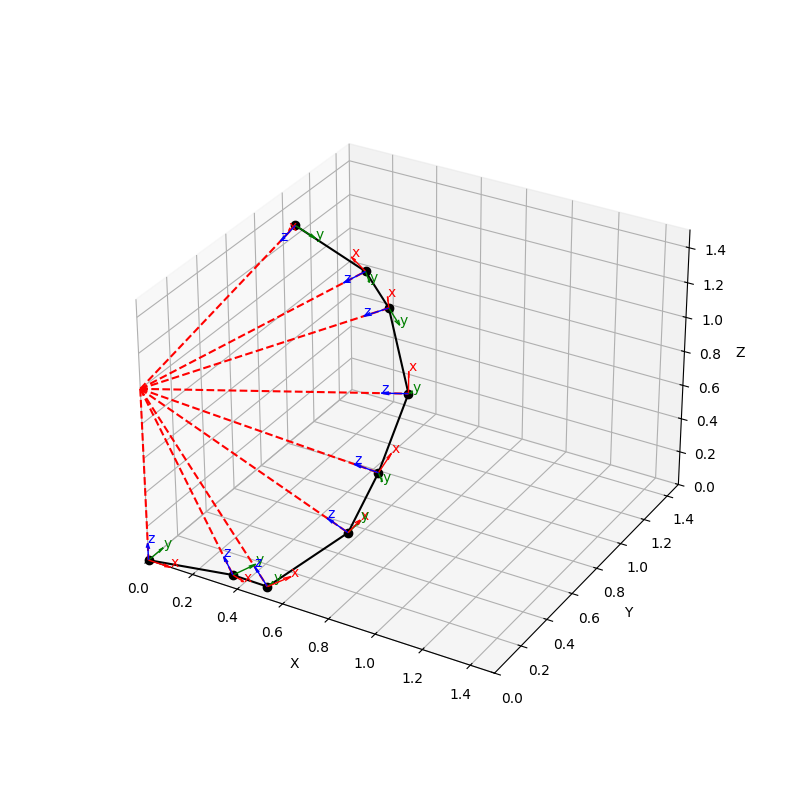
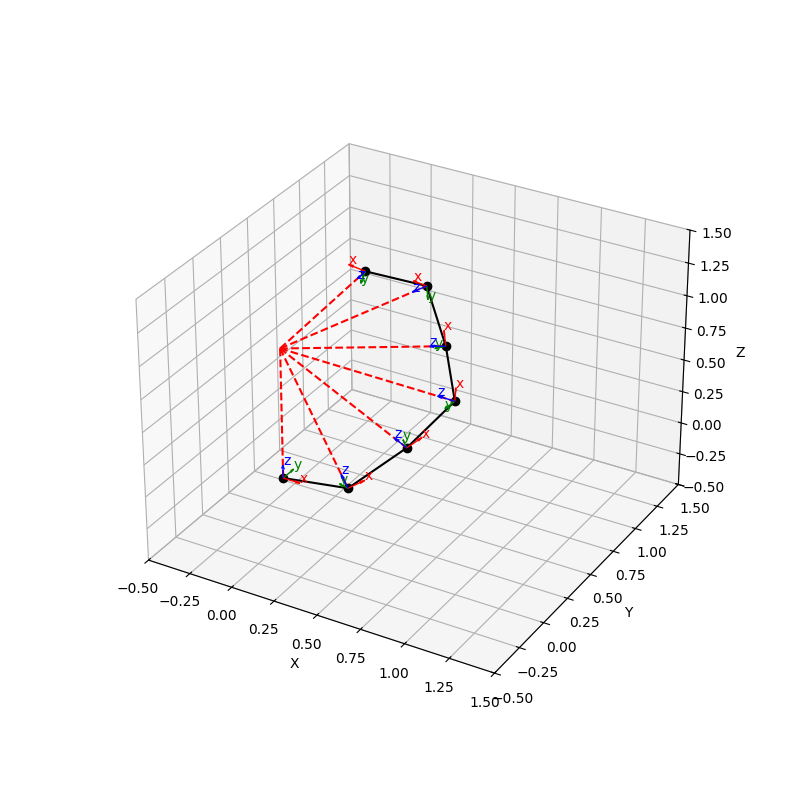
Input parameters added setup to make it easy to configure the fin folding in different ways

diff --git a/fin_transformation.py b/fin_transformation.py
@@ -15,6 +15,34 @@ Do the working to check matrix product is correct
 Model description with sketh in README 
 """
 
+"""
+------- INPUT PARAMETERS --------
+"""
+
+"""
+Number of fin rays
+(Must be even number)
+"""
+n_rays = 6
+
+"""
+Division factor, where ray angle = pi/division factor 
+- can be greater than or equal to number of fin rays   
+- must be even number
+"""
+division_factor = 8
+
+"""
+Spacing between each toe 
+Choose one, comment out the other
+"""
+# Equal spacing between each toe 
+spacing = n_rays   
+
+# If division factor is greater, spacing used for this number of rays (smaller angle between toes)
+# spacing = division_factor
+
+
 def plot_fin(positions, rotations, fin_base, scale=0.5):
 
     """
@@ -66,9 +94,9 @@ def plot_fin(positions, rotations, fin_base, scale=0.5):
     ax.set_xlabel('X')
     ax.set_ylabel('Y')
     ax.set_zlabel('Z')
-    ax.set_xlim(0, 1.5)
-    ax.set_ylim(0, 1.5)
-    ax.set_zlim(0, 1.5)
+    ax.set_xlim(-0.5, 1.5)
+    ax.set_ylim(-0.5, 1.5)
+    ax.set_zlim(-0.5, 1.5)
 
     # Plot wireframe by connecting joints to fin origin
     print(f'Check each point is equal distance from fin origin and equal to hinge length l={l}:')
@@ -179,17 +207,24 @@ def transformation_matrix(beta, a, gamma, theta):
     """
     return Ry(beta) @ Tx(a) @ Ry(gamma) @ Rz(theta)
 
-def generate_transformation_params(beta, a, gamma, theta):
+def generate_transformation_params(beta, a, gamma, theta, spacing):
     """
     Generates the individual joint parameters to describe the fin folding 
     """
     # Set angles for inner and outer folds
     inner_angle = theta
-    outer_angle = -inner_angle/2
+    outer_angle = -inner_angle * 1/2
+
+    # Calculate outer angle to create equal spacing between fin rays  
+    scale_factor = 1 - (4 / n_rays)
+    scale_factor = 1 - (4 / (division_factor))
+    scale_factor = 1 - (4 / spacing)
+    outer_angle = -inner_angle * scale_factor
+
 
     # Joint parameters for first two joints
-    params = [(beta, a, gamma, outer_angle),
-              (beta, a, gamma, inner_angle)]
+    params = [(beta, a, gamma, inner_angle),
+              (beta, a, gamma, outer_angle)]
 
     # Number of times to repeat to describe full fin
     repeats = int(n_rays/2)
@@ -199,14 +234,41 @@ def generate_transformation_params(beta, a, gamma, theta):
     
     return params
 
-# Number of fin rays
-n_rays = 8
 
-# Fin ray angle expressed as multiple of pi 
-ray_angle = 1/n_rays
-ray_angle = 1/8
+# """
+# Number of fin rays
+# (Must be even number)
+# """
+# n_rays = 6
+
+# """
+# Size of each ray as multiple of pi
+# Division factor:
+# - can be greater than or equal to number of fin rays   
+# - must be even number
+# """
+# division_factor = 6
+
+# # Fin ray angle
+# ray_angle = 1/ray_division_factor
+
+
+# """
+# Spacing between each toe 
+# Choose one, comment out the other
+# """
+# # Equal spacing between each toe 
+# spacing = n_rays   
+
+# # If division factor is greater, spacing used for this number of rays (smaller angle between toes)
+# spacing = division_factor
+
+
+
 
 # Fin ray angle
+ray_angle = 1/division_factor
+
 # alpha = pi / n_rays
 alpha = pi * ray_angle
 
@@ -244,7 +306,7 @@ gamma = -alpha/2
 for i, theta in enumerate(np.linspace(0, pi, 10)):
 
     # Joint parameters for transformation matrix: beta, a, gamma, theta
-    params = generate_transformation_params(beta, a, gamma, theta)
+    params = generate_transformation_params(beta, a, gamma, theta, spacing)
 
     # # Example: Fully opn fin (flat)
     # params = [(beta, a, gamma, 0)] * n_rays
@@ -254,8 +316,8 @@ for i, theta in enumerate(np.linspace(0, pi, 10)):
     #           (beta, a, gamma, -pi/4)] * int(n_rays/2)
 
     # # Example: Fully folded fin
-    # params = [(beta, a, gamma, -pi/2),
-    #           (beta, a, gamma, pi)] * int(n_rays/2)
+    # params = [(beta, a, gamma, pi),
+    #           (beta, a, gamma, -pi/2)] * int(n_rays/2)
     
     # 4 x 4 identity matrix
     T = np.eye(4)
